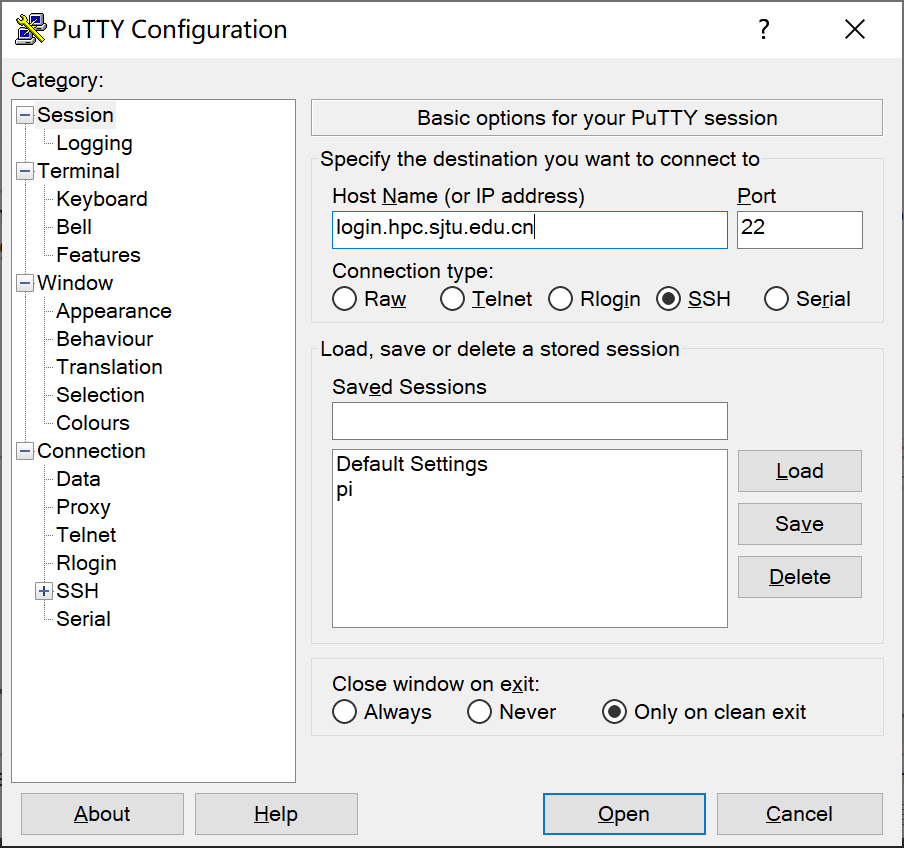
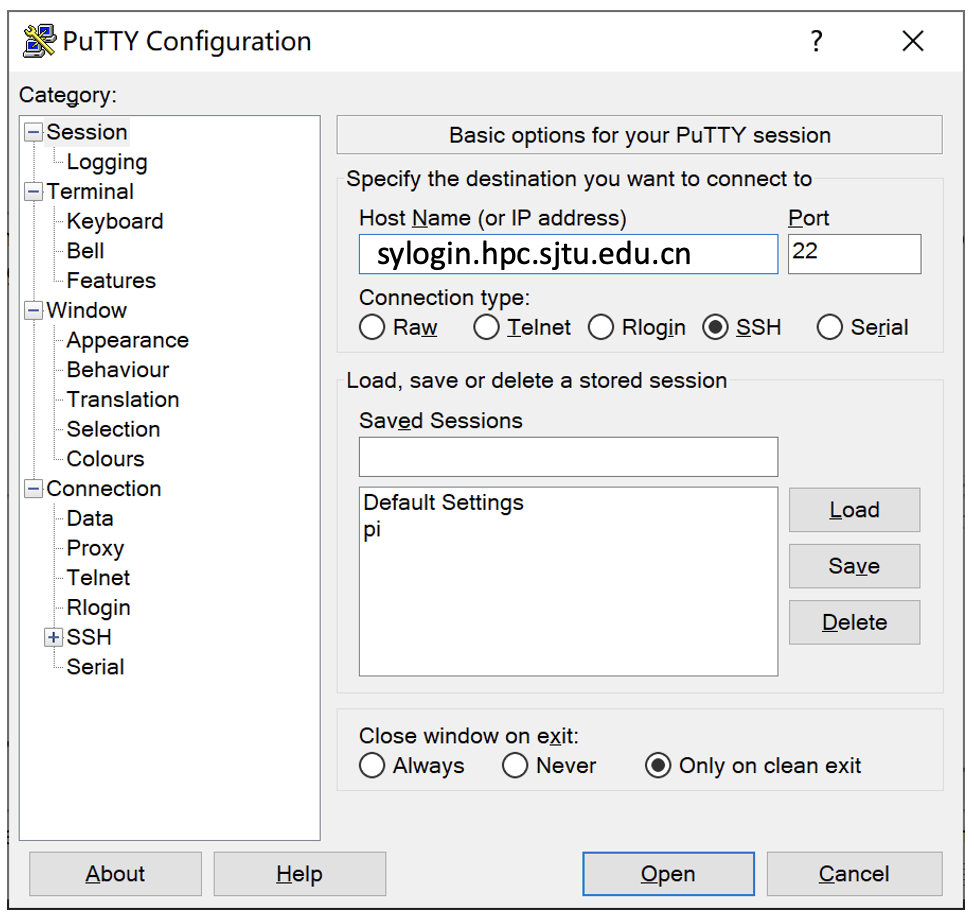
amber and login update

Changed region(s): [[0.0, 0.0, 1.0, 1.0], [0.3717, 0.7972, 0.6195, 0.8585], [0.6504, 0.8278, 0.8982, 0.8585]]

diff --git a/docs/login/index.rst b/docs/login/index.rst
@@ -67,25 +67,12 @@ SSH 登录
 登录方法二：客户端登录
 ^^^^^^^^^^^^^^^^^^^^^^^^^^^^
 
-Windows
-^^^^^^^
-
 Windows 推荐使用 Putty 免费客户端，下载后双击即可运行使用。可至 \ `Putty 官网 <https://www.putty.org>`__\
-下载。
+下载。Linux / Unix / Mac 操作系统拥有自己的 SSH 客户端，包括 ssh, scp, sftp 等。
 
 
-Linux/Unix/Mac
-^^^^^^^^^^^^^^
+下面介绍 Windows 用户使用 Putty 客户端登录思源一号。
 
-Linux / Unix / Mac 操作系统拥有自己的 SSH 客户端，包括 ssh, scp, sftp 等。
-
-SSH 登录 π 集群
-----------------------------
-
-下面介绍通过 SSH 登录
-
-Windows用户
-^^^^^^^^^^^^^^^^^
 
 启动客户端 Putty，填写登录节点地址 sylogin.hpc.sjtu.edu.cn （适用于思源一号），或  login.hpc.sjtu.edu.cn （适用于 π 集群），端口号采用默认值 22，然后点 Open 按钮，如下图所示：
 
@@ -98,14 +85,6 @@ Windows用户
 
 *提示：输入密码时，不显示字符，请照常进行操作，然后按回车键登录。*
 
-Linux/Unix/Mac用户使用SSH
-^^^^^^^^^^^^^^^^^^^^^^^^^
-
-Linux / Unix / Mac 用户可以使用终端中的命令行工具登录。下列语句指出了该节点的IP地址、用户名和SSH端口。
-
-.. code:: bash
-
-   $ ssh YOUR_USERNAME@TARGET_IP
 
 通过 SSH 传输文件
 -----------------
